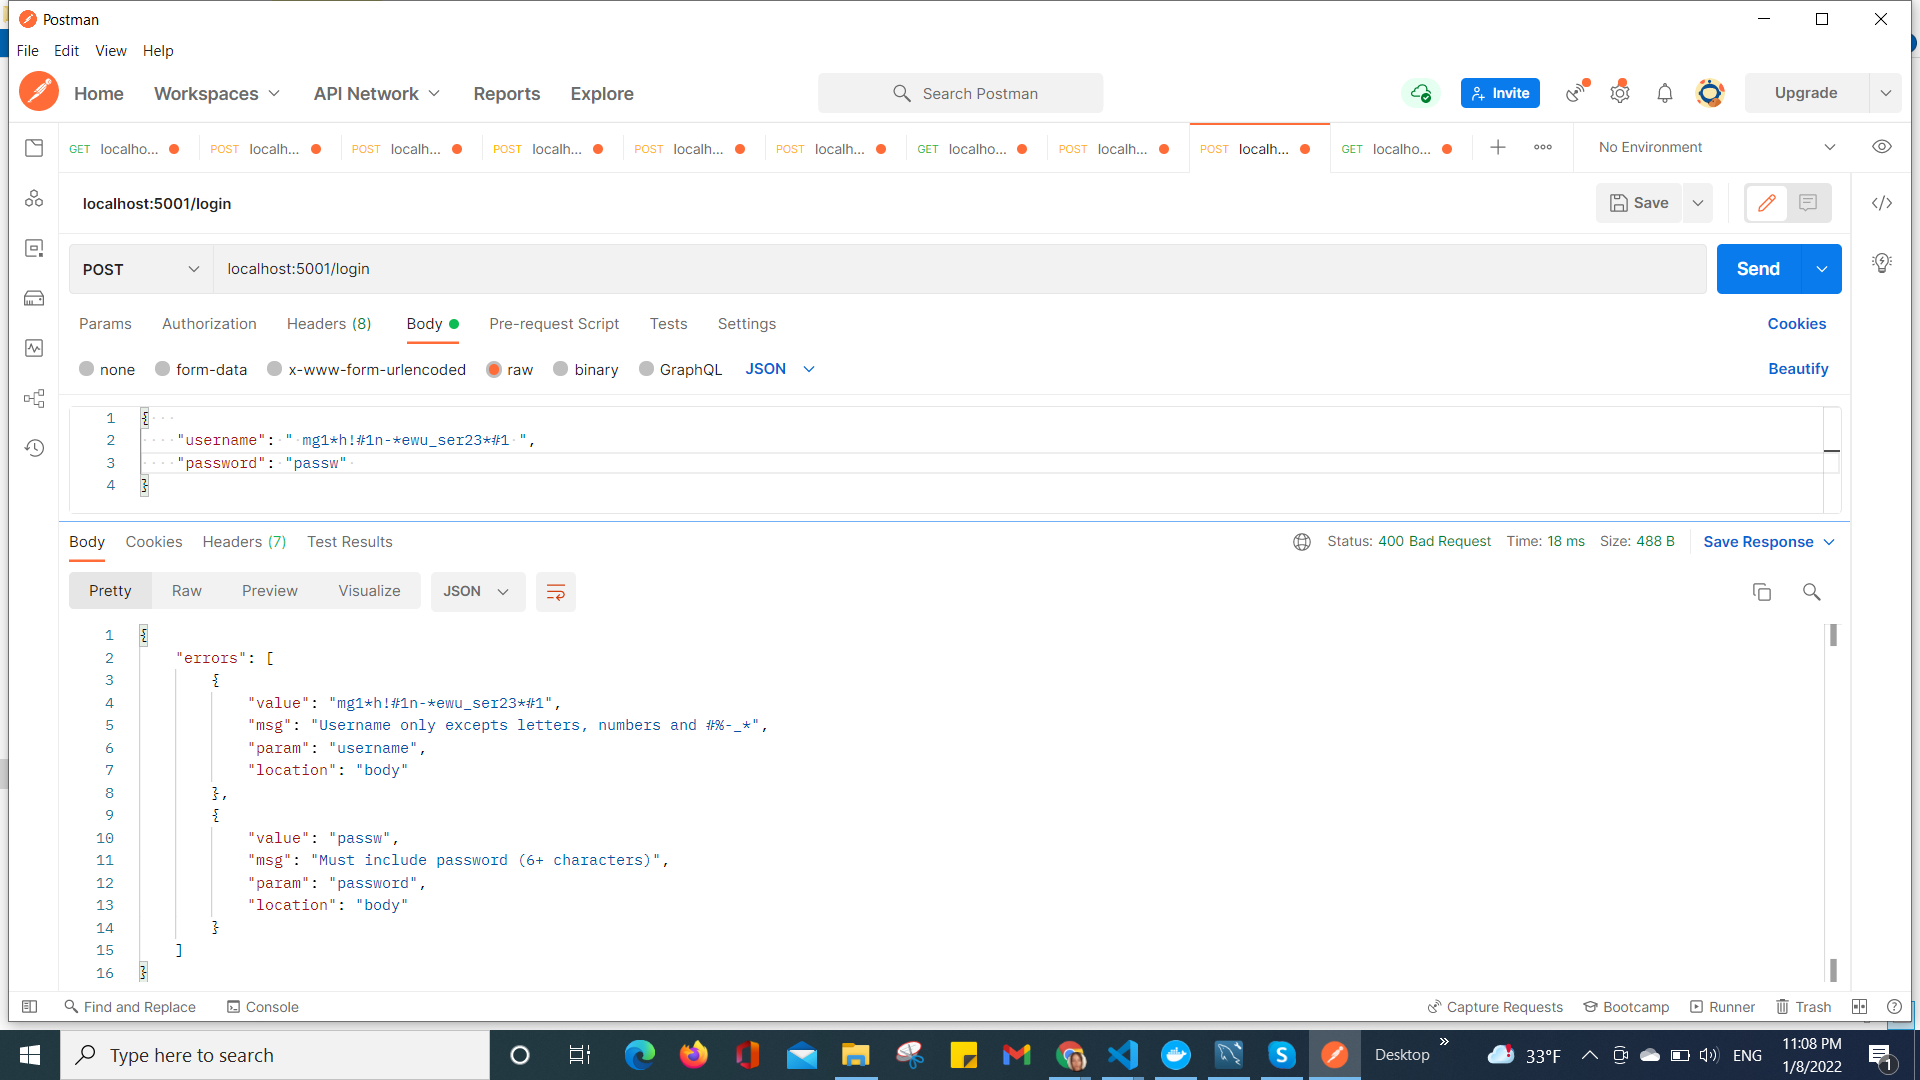
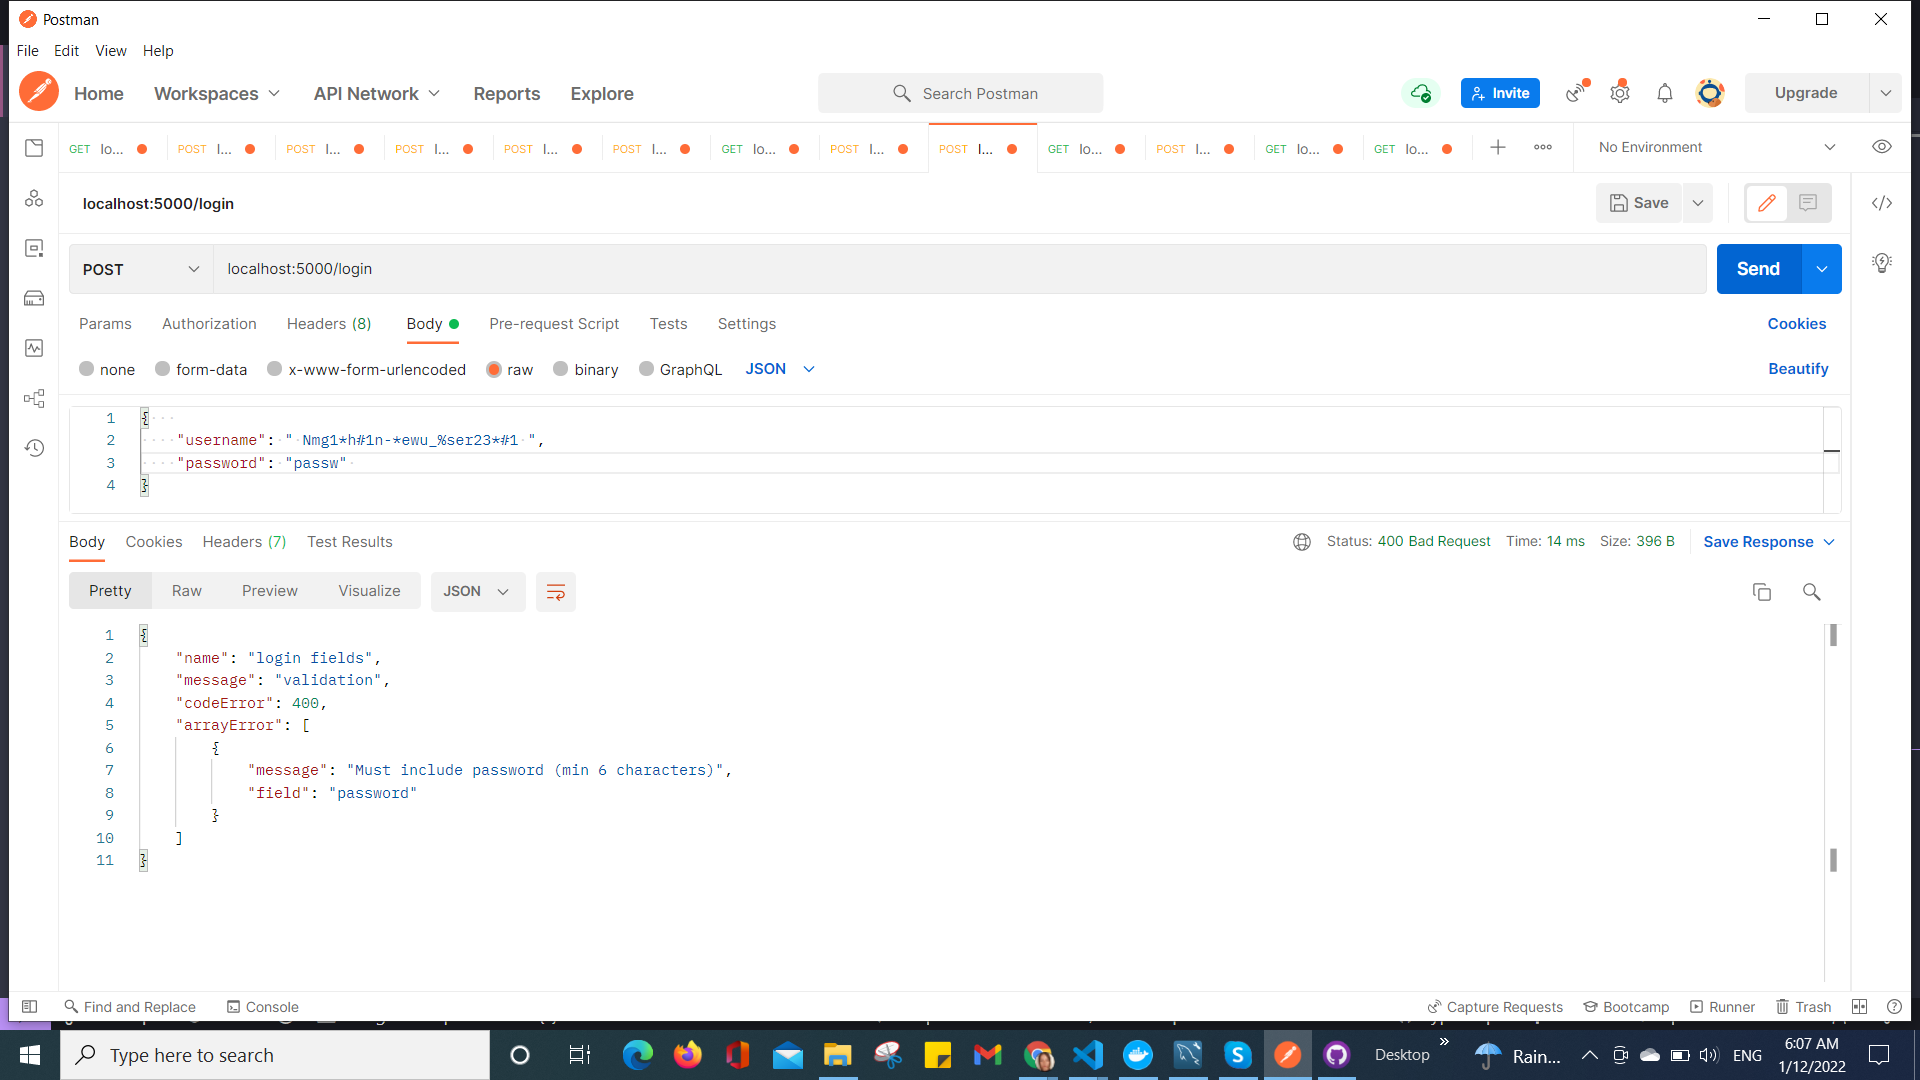
Refactoring
Removed express-validation lib
Update Readme.md
removed some commented code

diff --git a/src/middleware/users.middleware.ts b/src/middleware/users.middleware.ts
@@ -15,7 +15,7 @@ class UsersMiddleware{
     
      validatePassword = async(req: Request, res: Response, next: NextFunction): Promise<void> => {
         const user: UserDto | null = await UserService.verifyLogin(req.body.email, req.body.username, req.body.password );        
-        user? next(): res.status(403).send(new MyError( 'password', 'validation', 400,[{
+        user? next(): res.status(403).send(new MyError( 'credential error ', 'validation', 400,[{
                                                  message: 'Credentials are invalid!',
                                                 field: 'password'
                                             }]));
@@ -25,7 +25,7 @@ class UsersMiddleware{
         req.body.username = validator.trim(req.body.username);
         req.body.email = validator.trim(req.body.email);
         req.body.password = validator.trim(req.body.password);
-        const errors: MyError = new MyError('password fields', 'validation' ,400, []);
+        const errors: MyError = new MyError('registration error', 'validation' ,400, []);
         if(!validator.isAlphanumeric(req.body.username, 'sr-RS@latin', {ignore: '%#*-_'})){
             errors.arrayError.push({
                 message:'User name only excepts letters, numbers or %#*-_',
@@ -57,7 +57,7 @@ class UsersMiddleware{
 
     validateLoginUserFields = async(req: Request, res: Response, next: NextFunction): Promise<void> => {
         
-        const errors: MyError = new MyError('login fields', 'validation' ,400, []);
+        const errors: MyError = new MyError('login error', 'validation' ,400, []);
         if(req.body.username || req.body.email){
             if(req.body.username){
                 req.body.username = validator.trim(req.body.username);
@@ -102,32 +102,6 @@ class UsersMiddleware{
 
         errors.arrayError.length > 0? res.status(400).send(errors): next();
 
-        /*if(req.body && req.body.password){
-            if( req.body.username){
-                req.body.username = validator.trim(req.body.username);
-                if(validator.isAlphanumeric(req.body.username, 'sr-RS@latin', {ignore: '%#*-_'}) &&
-                    validator.isAlpha(req.body.username[0])){                    
-                    req.body.email = '';
-                    next();
-                }else{
-                    res.status(400).send({ error: 'Username must start with a letter and only excepts letters, numbers and #%-_*' })
-                }
-            }else{
-                if( req.body.email){
-                    req.body.email = validator.trim(req.body.email);
-                    if(validator.isEmail(req.body.email)){
-                        req.body.username = '';
-                        next();
-                    }else{
-                        res.status(400).send({ error: 'Invalid email format'});
-                    }                    
-                }else{
-                    res.status(400).send({ error: 'Missing username, email or password' });        
-                }
-            }            
-        }else{
-            res.status(400).send({ error: 'Missing username, email or password' });
-        }*/
     }
     
 }

diff --git a/src/server.ts b/src/server.ts
@@ -1,4 +1,3 @@
-
 import dotenv from 'dotenv';
 dotenv.config();
 import bodyParser from 'body-parser';
@@ -13,9 +12,6 @@ app.use(bodyParser.json());
 
 /**Routes */
 app.use('/', userRoutes);
-//app.use('/login', userRoutes);
-//app.use('/register', userRoutes);
-//app.use('/users', userRoutes);
 app.use('/profiles', profileRoutes);
 
 console.log( allRoutes(app));
@@ -23,8 +19,8 @@ console.log( allRoutes(app));
 
 /**Error handlers */
 app.use((req: Request, res: Response): void => {
-    const error = new Error('404 - Not found');
-    res.status(404).json({ message: error.message })
+    const error: Error = new Error('404 - Not found');
+    res.status(404).json(error.message);
 })
 
 const PORT: number = Number(process.env.PORT) || 5000;

diff --git a/src/instances/sequalize.ts b/src/instances/sequalize.ts
@@ -11,7 +11,7 @@ export const sequelize = new Sequelize(DB, USERNAME, PASSWORD, {
     port: PORT ,
 });
 
-const mySequalize =  async ():Promise<void> => {
+const mySequelize =  async ():Promise<void> => {
     try {
         await sequelize.authenticate();
         console.log('Connection has been established successfully.');
@@ -20,7 +20,7 @@ const mySequalize =  async ():Promise<void> => {
       }
 }
 
-mySequalize();
+mySequelize();
 
 
 

diff --git a/src/services/profile.service.ts b/src/services/profile.service.ts
@@ -1,10 +1,9 @@
 import { ProfileDto } from '../dto/profile.dto';
 import { IProfileService } from './profile.interface';
-import ProfilesDao from '../daos/profiles.dao';
+import ProfilesDao from '../dao/profiles.dao';
 
 class ProfileService implements IProfileService{
     createProfile = async(profileDto: ProfileDto): Promise<number> => {
-        console.log(profileDto);
         return ProfilesDao.createProfile(profileDto);
     }
     

diff --git a/src/services/user.service.ts b/src/services/user.service.ts
@@ -1,6 +1,6 @@
 import { IUserService } from './user.interface';
 import { RegisterUserDto } from '../dto/register.user.dto';
-import UsersDao from '../daos/users.dao';
+import UsersDao from '../dao/users.dao';
 import { UserDto } from '../dto/user.dto';
 
 class UserService implements IUserService {

diff --git a/README.md b/README.md
@@ -47,7 +47,7 @@
     8. Body-parser
     9. Bcryptjs
     10. Jsonwebtoken
-    11. Express-validator
+    11. Validator
 
 ### Screenshot
 
